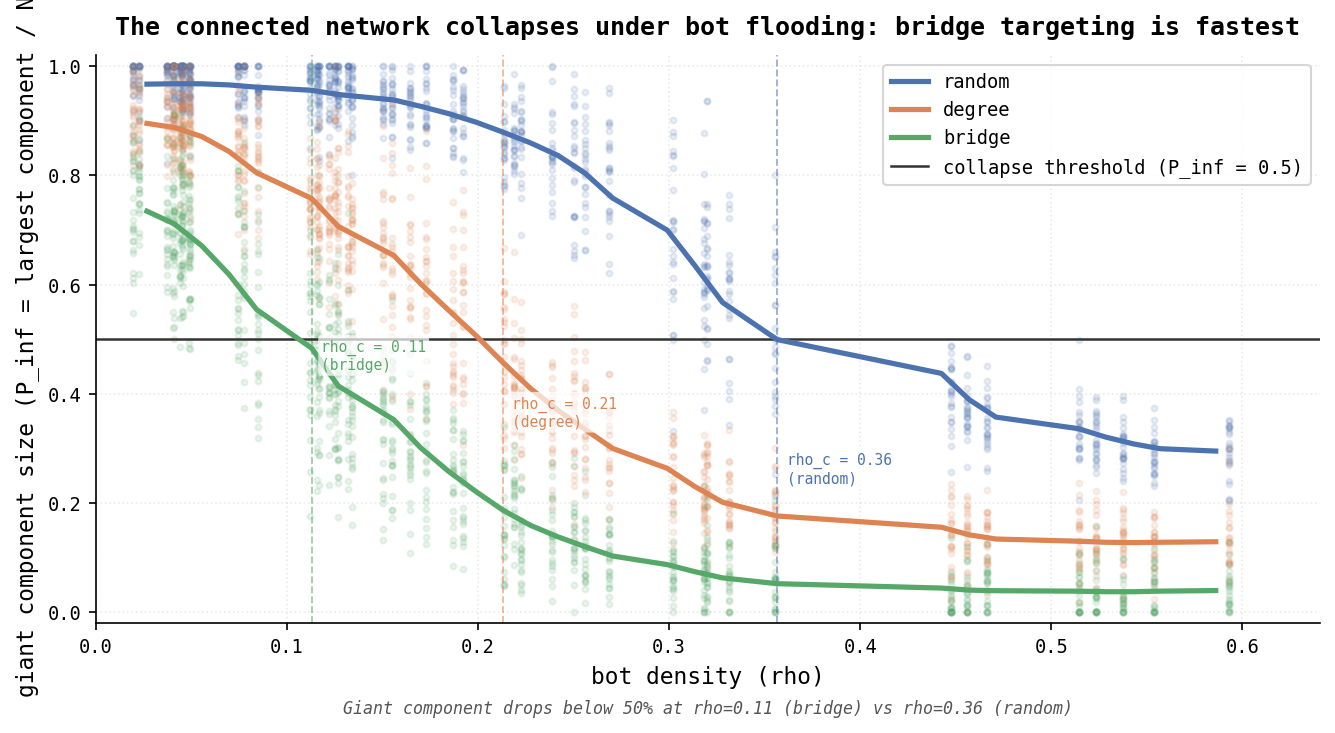
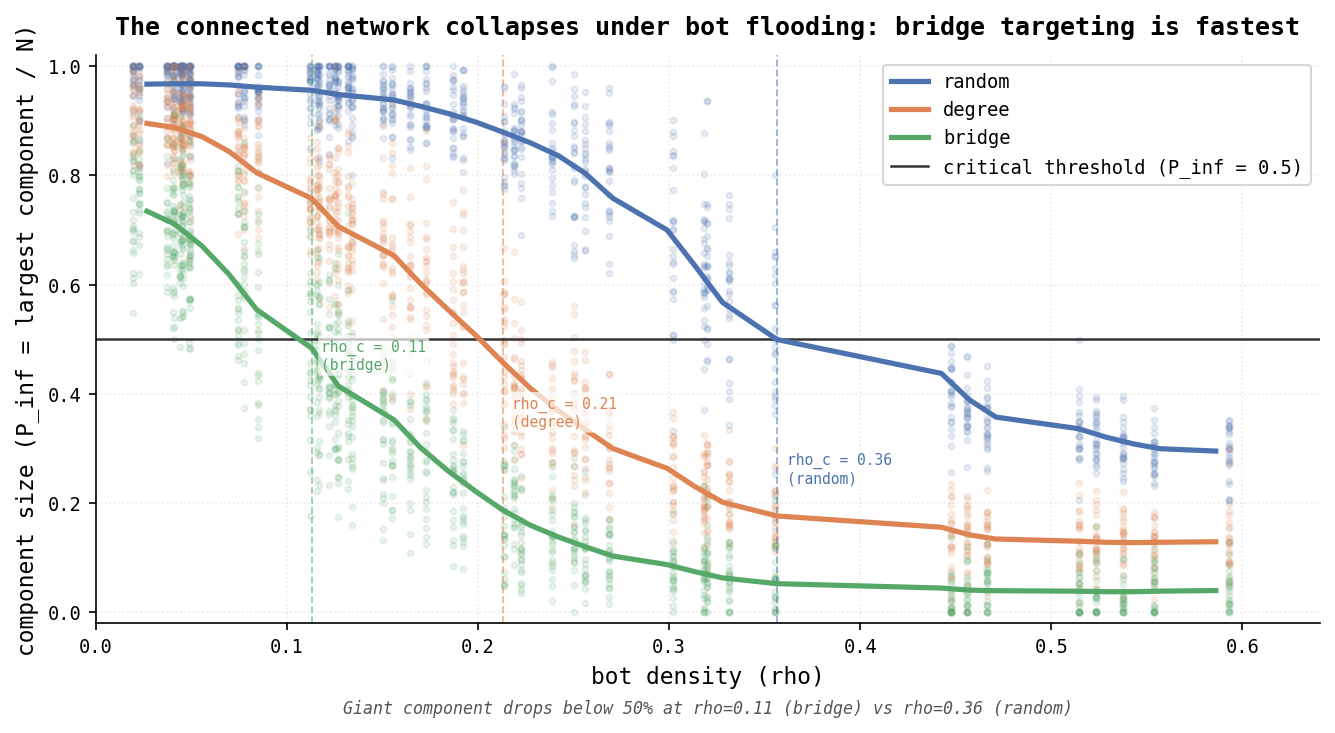
Update labels

Changed region(s): [[0.0, 0.0, 0.0307, 0.9604], [0.7064, 0.2101, 0.7678, 0.2401]]

diff --git a/synthetic_viz/viz.py b/synthetic_viz/viz.py
@@ -186,10 +186,10 @@ def plot_giant_component(df, out_dir):
                                  y_text=0.30 + STRATEGIES.index(s) * 0.10)
 
         ax.axhline(0.5, color="#333", lw=1.2, ls="-", zorder=2,
-                   label="collapse threshold (P_inf = 0.5)")
+                   label="critical threshold (P_inf = 0.5)")
 
         ax.set_xlabel("bot density (rho)")
-        ax.set_ylabel("giant component size (P_inf = largest component / N)")
+        ax.set_ylabel("component size (P_inf = largest component / N)")
         ax.set_title("The connected network collapses under bot flooding: bridge targeting is fastest",
                      fontsize=12, fontweight="bold", pad=10)
         ax.text(0.5, -0.16, subtitle, transform=ax.transAxes,
@@ -267,7 +267,7 @@ def plot_Pinf_distribution(df, out_dir):
         df, metric="P_inf",
         ylabel="giant component size (P_inf)",
         title="Bridge targeting leaves the smallest surviving network across all conditions",
-        threshold=0.5, threshold_label="collapse threshold (P_inf = 0.5)",
+        threshold=0.5, threshold_label="critical threshold (P_inf = 0.5)",
         subtitle=subtitle,
         out_path=out_dir / "4_Pinf_distribution.png",
     )
